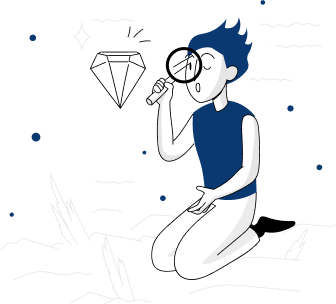
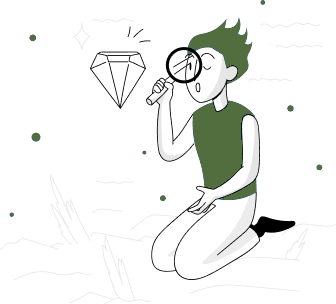
1.3

diff --git a/styles/style.css b/styles/style.css
@@ -2,12 +2,16 @@
 
 :root {
     --cor-primaria: #F3F5FC;
-    --cor-secundaria: #0A3871;
+    --cor-secundaria: #526E3E; 
     --cor-terciaria: #FFFFFF;
     --cor-quartenaria: #495057;
 
 
     --fonte-primaria:  "Inter", sans-serif;
+}
+
+:root.azul {
+    --cor-secundaria: #0A3871; 
 }
 
 * {
@@ -17,6 +21,7 @@
     margin: 0;
     padding: 0;
 }
+
 
 header {
     position: fixed;
@@ -28,6 +33,7 @@ body {
     display: flex;
     flex-direction: column;
     justify-items: center;
+    gap: 32px;
 }
 
 
@@ -46,6 +52,15 @@ main {
     flex-direction: column;
     margin-top: 128px;
     gap: 395px;
+}
+
+.switch {
+    filter: opacity(80%);
+    width: 16px;
+}
+
+.switch.invert {
+    transform: rotate(3.142rad);
 }
 
 .input__text__area {
@@ -137,6 +152,7 @@ main {
     flex-direction: column;
     justify-content: center;
     align-items: center;
+    box-shadow: 0px 24px 32px -8px #00000014;
 }
 
 .output__padrao {
@@ -145,6 +161,7 @@ main {
     flex-direction: column;
     justify-content: center;
     align-items: center;
+    gap: 36px;
 }
 
 .output__padrao.invisivel {
@@ -224,20 +241,19 @@ main {
 
 .rodape {
     margin-left: 40px;
-    margin-top: 20px;
     display: flex;
     justify-items: space-between;
     align-items: center;
     gap: 8px;
     text-decoration: none;
-    color: var(--cor-quartenaria);
+    color: var(--cor-primaria);
 }
 
 .rodape__info {
     font-family: var(--fonte-primaria);
 }
 
-.rodape__info:focus {
+.rodape__info:hover {
     color: var(--cor-quartenaria);
 }
 
@@ -366,7 +382,6 @@ main {
         width: 327px;
         height: auto;
         border-radius: 32px;
-        box-shadow: 0px 24px 32px -8px #00000014;
     }
     
     .output__padrao__imagem {

diff --git a/index.html b/index.html
@@ -19,6 +19,7 @@
             <textarea class="input__text__area" cols="41" rows="4" placeholder="Digite seu texto" autocapitalize="sentence"></textarea>
             <div class="input__info">
                 <figure class="input__icon">
+                    <img class="switch" src="./assets/switch.png" onclick="btnSwitch()" title="Alterar a cor">
                     <img class="input__info__icon" src="./assets/exclamacao.png" alt="exclamacao">
                     <figcaption class="input__info__obs"> Apenas letras minúsculas e sem acento. </figcaption>
                 </figure>
@@ -31,7 +32,7 @@
         
         <section class="output">
             <div class="output__padrao">
-                <img class="output__padrao__imagem"src="./assets/procurando.png" alt="procurando">
+                <img class="output__padrao__imagem" src="./assets/procurando.png" alt="procurando">
                 <div class="output__padrao__texto">    
                     <h2 class="output__padrao__texto__a">Nenhuma mensagem <br> encontrada</h2>
                     <h3 class="output__padrao__texto__b">Digite um texto que você deseja <br> criptografar ou descriptografar.</h3>
@@ -47,7 +48,7 @@
         <a  class="rodape" href="https://github.com/sabrina-lamounier" target="_blank">
             <img class="rodape__img" src="./assets/tm.png" alt="">
             <h6 class="rodape__info">Desenvolvido por Sabrina Lamounier</h6>
-         </a>
+        </a>
     </footer>
     <script src="script.js"></script>
 </body>

diff --git a/script.js b/script.js
@@ -3,6 +3,9 @@ const menstextArea = document.querySelector(".output__copiar__text__area");
 const output = document.querySelector(".output");
 const outputPadrao = document.querySelector(".output__padrao");
 const outputCopiar = document.querySelector(".output__copiar");
+const root = document.querySelector(":root");
+const btSwitch = document.querySelector(".switch");
+
 
 let matrizCodigo = [["e" , "enter"] , ["i" , "imes"] , ["a" , "ai"] , ["o" , "ober"] , ["u" , "ufat"]];
 
@@ -39,7 +42,27 @@ function btnCopiatexto() {
     const stringCopiada = menstextArea.value;
     textArea.value = stringCopiada;
     updateClipboard(menstextArea.value);
+    menstextArea.value = "";
 }
+
+function btnSwitch(){
+    root.classList.toggle('azul');
+    btSwitch.classList.toggle('invert');
+    altImg(".cabecalho__logo");
+    altImg(".cabecalho__logo__bg");
+    altImg(".output__padrao__imagem");   
+}
+
+function altImg (classe) {
+    const atr = document.querySelector(classe);
+    if (atr.src.includes('azul')) {
+        atr.src = atr.src.replace("_azul", "");
+    }
+    else {  
+        atr.src = atr.src.replace('.png', '_azul.png');
+    }
+}
+
 
 function updateClipboard(newClip) {
     navigator.clipboard.writeText(newClip).then(
